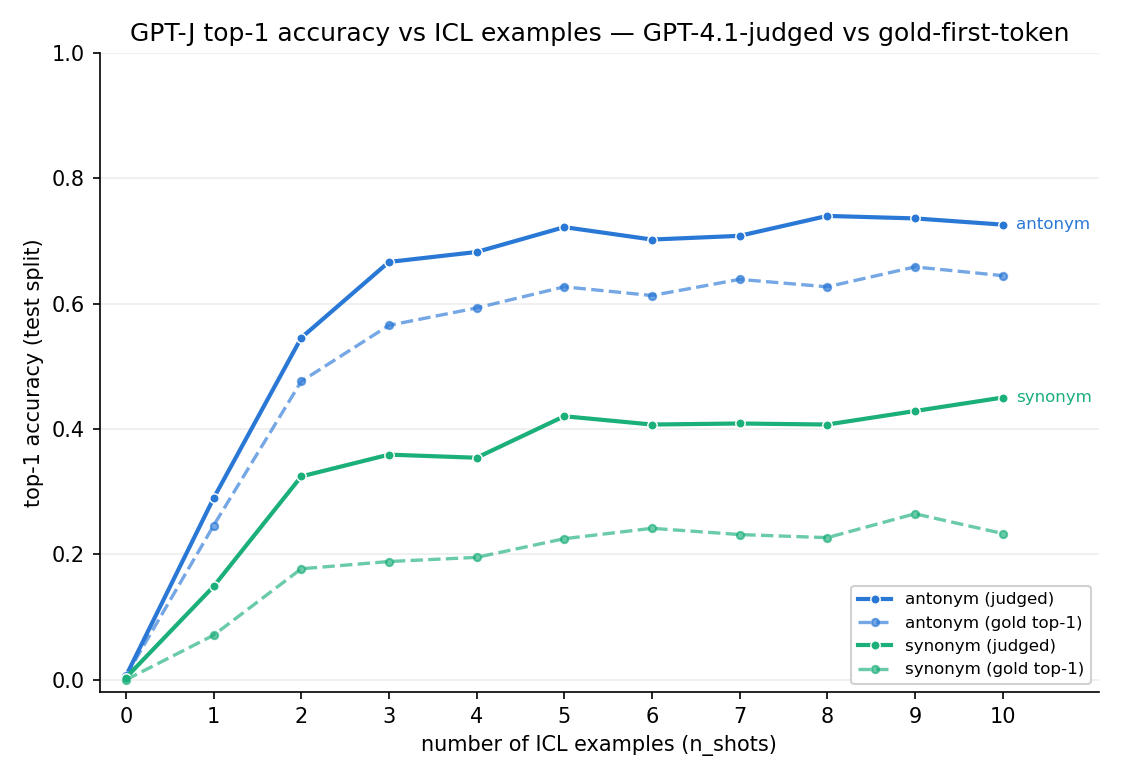
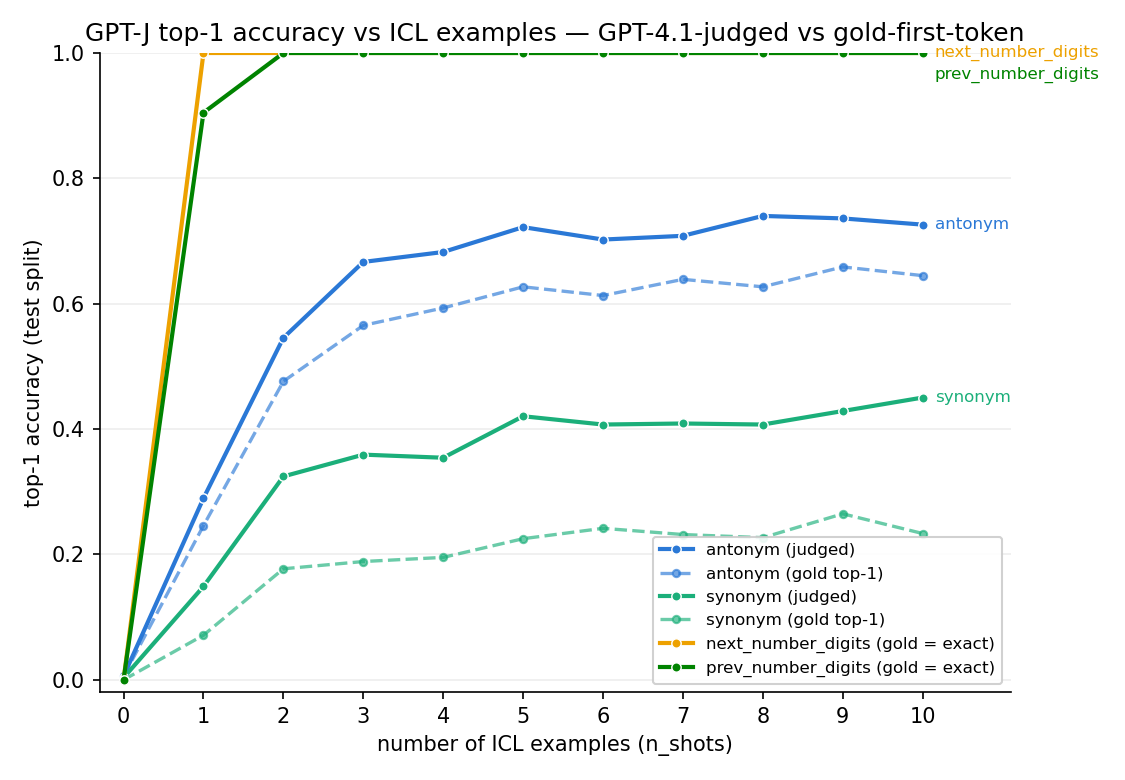
Stream X2: combined 4-task accuracy figure (judged + gold lines)

diff --git a/src/eval_scripts/plot_judged_accuracy_by_nshots.py b/src/eval_scripts/plot_judged_accuracy_by_nshots.py
@@ -21,7 +21,8 @@ sys.path.append(os.path.join(os.path.dirname(__file__), "..", "utils"))
 sys.path.append(os.path.join(os.path.dirname(__file__), ".."))
 from utils.paths import GENERAL_DIR, LABEL_GEOMETRY_DIR
 
-TASK_COLORS = {"antonym": "#2a78d6", "synonym": "#1baf7a"}  # same slots as the gold figure
+TASK_COLORS = {"antonym": "#2a78d6", "synonym": "#1baf7a",   # same slots as the gold figure
+               "next_number_digits": "#eda100", "prev_number_digits": "#008300"}
 
 
 def parse_args():
@@ -29,7 +30,13 @@ def parse_args():
     p.add_argument("--input_root", type=Path,
                    default=GENERAL_DIR / "task_accuracies" / "by_nshots_judged")
     p.add_argument("--tasks", nargs="+", default=["antonym", "synonym"])
+    p.add_argument("--gold_only_tasks", nargs="+", default=[],
+                   help="Tasks drawn from the gold-scored by_nshots run only (no judge records); "
+                        "closed-answer tasks where gold top-1 is already exact.")
+    p.add_argument("--gold_root", type=Path,
+                   default=GENERAL_DIR / "task_accuracies" / "by_nshots")
     p.add_argument("--n_shots", type=int, nargs="+", default=list(range(0, 11)))
+    p.add_argument("--output_name", type=str, default="gptj_judged_accuracy_by_nshots_top1.png")
     p.add_argument("--output_dir", type=Path,
                    default=LABEL_GEOMETRY_DIR / "tenshot_strip_intervention_cos_heatmap" / "figures")
     return p.parse_args()
@@ -38,6 +45,14 @@ def parse_args():
 def main():
     args = parse_args()
     fig, ax = plt.subplots(figsize=(7.5, 5.2))
+    label_ys = []
+
+    def stagger(y):  # nudge end-of-line labels apart when curves end at the same height
+        while any(abs(y - u) < 0.035 for u in label_ys):
+            y -= 0.035
+        label_ys.append(y)
+        return y
+
     for task in args.tasks:
         color = TASK_COLORS[task]
         judged, gold = [], []
@@ -50,7 +65,16 @@ def main():
                 label=f"{task} (judged)")
         ax.plot(args.n_shots, gold, "--", color=color, linewidth=1.6, marker="o",
                 markersize=3.5, alpha=0.65, label=f"{task} (gold top-1)")
-        ax.annotate(task, (args.n_shots[-1] + 0.15, judged[-1]), color=color,
+        ax.annotate(task, (args.n_shots[-1] + 0.15, stagger(judged[-1])), color=color,
+                    fontsize=8, va="center", annotation_clip=False)
+    for task in args.gold_only_tasks:
+        color = TASK_COLORS[task]
+        y = [json.loads((args.gold_root / f"{task}_n{n}.json").read_text())["topk"]["1"]
+             for n in args.n_shots]
+        ax.plot(args.n_shots, y, "-", color=color, linewidth=2, marker="o",
+                markersize=4.5, markeredgecolor="white", markeredgewidth=0.7,
+                label=f"{task} (gold = exact)")
+        ax.annotate(task, (args.n_shots[-1] + 0.15, stagger(y[-1])), color=color,
                     fontsize=8, va="center", annotation_clip=False)
     ax.set_xticks(args.n_shots)
     ax.set_xlim(args.n_shots[0] - 0.3, args.n_shots[-1] + 1.1)
@@ -62,7 +86,7 @@ def main():
     ax.grid(axis="y", color="#eeeeee", linewidth=0.8, zorder=0)
     ax.legend(fontsize=8, framealpha=0.9, loc="lower right")
     args.output_dir.mkdir(parents=True, exist_ok=True)
-    out = args.output_dir / "gptj_judged_accuracy_by_nshots_top1.png"
+    out = args.output_dir / args.output_name
     fig.tight_layout()
     fig.savefig(out, dpi=150)
     plt.close(fig)

diff --git a/WORKLOG.md b/WORKLOG.md
@@ -29,7 +29,7 @@ word).
 summarize, resumable per (task,n)) + `plot_judged_accuracy_by_nshots.py`. Data (TRACKED):
 `results/general/task_accuracies/by_nshots_judged/{task}_n{n}.json` (per-prompt: query, gold,
 top-5 tokens, gold_rank, judge_correct) + summary.json. Figure:
-`.../tenshot_strip_intervention_cos_heatmap/figures/gptj_judged_accuracy_by_nshots_top1.png`.
+`.../tenshot_strip_intervention_cos_heatmap/figures/gptj_judged_accuracy_by_nshots_top1.png` (all 4 strip-study tasks: judged solid + gold dashed for antonym/synonym; digit tasks gold-only, exact by construction).
 
 **Findings:**
 - antonym: judged ≈ gold + 0.07–0.10 from n=2 on; plateau 0.70–0.74 (gold 0.62–0.66).
